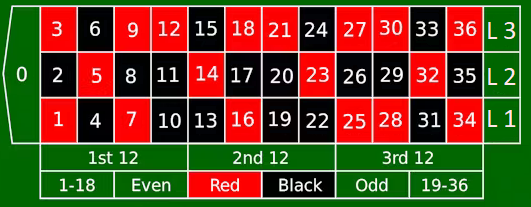
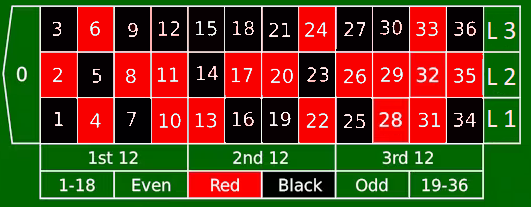
fixed colors

diff --git a/cogs/roulette.py b/cogs/roulette.py
@@ -178,11 +178,11 @@ class Roulette(commands.Cog):
 
     @staticmethod
     def getNumberString(self, sub_option):
-        if sub_option == "Red":
-            return "1,3,5,7,9,12,14,16,18,21,23,25,17,28,30,32,34,36"
+        if sub_option == "Black":
+            return "1,3,5,7,9,12,14,15,16,18,19,21,23,25,27,30,34,36"
         
-        elif sub_option == "Black":
-            return "2,4,6,8,10,11,13,15,17,19,20,22,24,26,29,31,33,35"
+        elif sub_option == "Red":
+            return "2,4,6,8,10,11,13,17,20,22,24,26,28,29,31,32,33,35"
         
         elif sub_option == "Odd":
             return "1,3,5,7,9,11,13,15,17,19,21,23,25,27,29,31,33,35"
@@ -239,7 +239,11 @@ class Roulette(commands.Cog):
     @discord.option("list_numbers", description="[sub_option Numbers] List numbers 0-36 separated by ','", required=False)
     async def bet(self, ctx: discord.ApplicationContext, amount: int, option: str, sub_option: str, list_numbers: str):
         rouletteGameCheck = rouletteGameCol.find_one({"guild_id": ctx.guild.id},{"_id": 0, "running": 1, "rolling": 1})
-        if(rouletteGameCheck["running"] == False or rouletteGameCheck is None):
+        if(rouletteGameCheck is None):
+            await ctx.respond("Start a roulette game first with '/roulette start'.", ephemeral=True)
+            return
+
+        if(rouletteGameCheck["running"] == False):
             await ctx.respond("Start a roulette game first with '/roulette start'.", ephemeral=True)
             return
         

diff --git a/test_db.py b/test_db.py
@@ -31,10 +31,10 @@ wagersSubCol = myDB["WagersSub"]
 wagersCol.drop()
 wagersSubCol.drop()"""
 
-rouletteGameCol = myDB["RouletteGame"] #ONLY 1 GAME AT A TIME IN THE GUILD
+"""rouletteGameCol = myDB["RouletteGame"] #ONLY 1 GAME AT A TIME IN THE GUILD
 rouletteUserCol = myDB["RouletteUser"]
 rouletteGameCol.drop()
-rouletteUserCol.drop()
+rouletteUserCol.drop()"""
 
 #insert
 """mydict = { "name": "John", "address": "Highway 37" }
